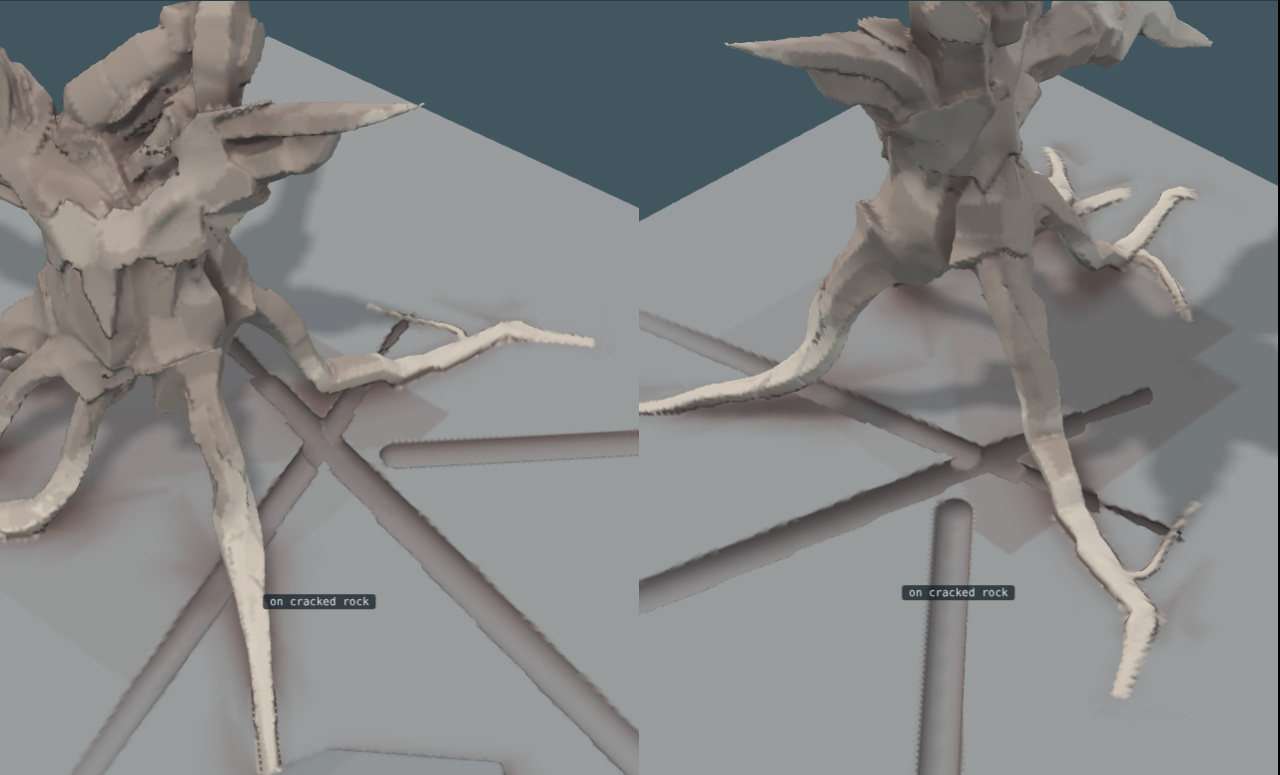
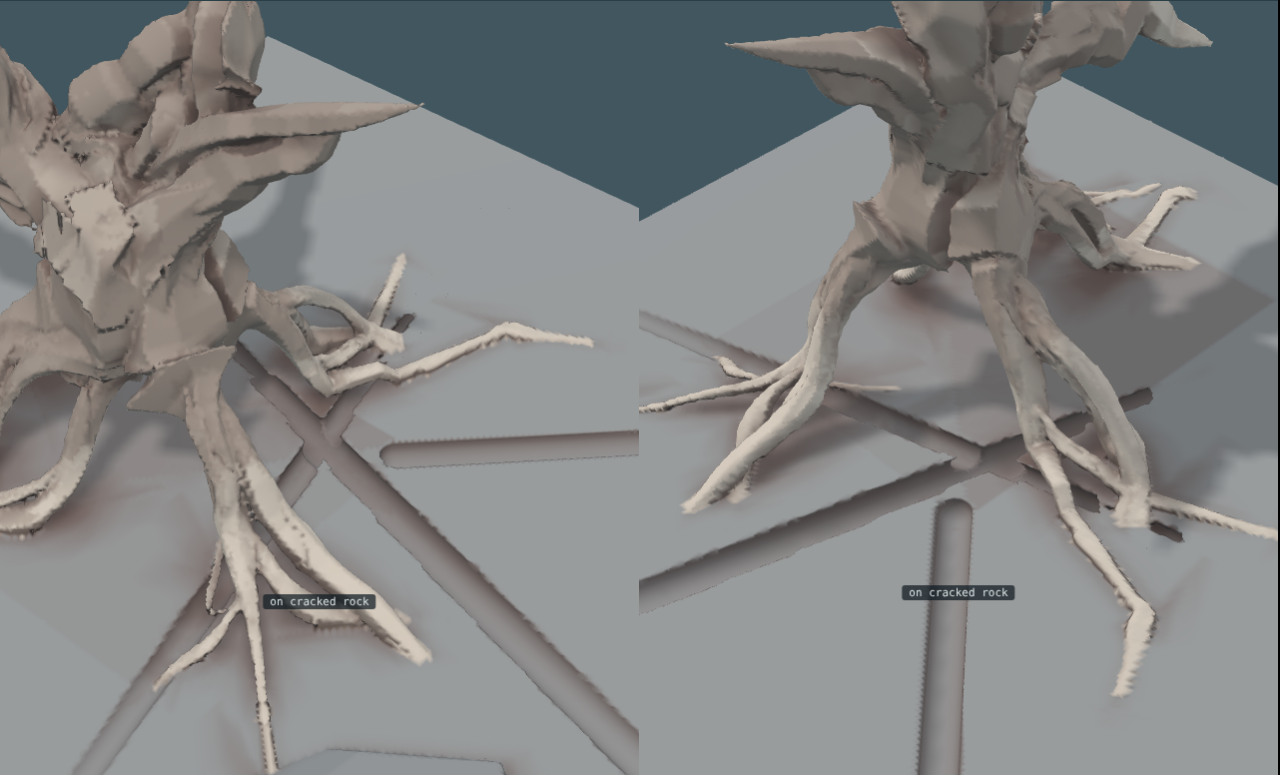
Roots divide near the foot, and what parts far out is a side root rather than a second trunk
Claude-Session: https://claude.ai/code/session_0192rgp75jGkttZXf7hEakip

diff --git a/trees.js b/trees.js
@@ -30,7 +30,7 @@
   function frames(P) { let N = null; return P.map((p, i) => { const T = unit([0, 1, 2].map((k) => P[Math.min(P.length - 1, i + 1)][k] - P[Math.max(0, i - 1)][k])); N = unit((N || [1, 0, 0.2]).map((v, k, A) => v - T[k] * dot(A, T))); return [T, N, cross(T, N)]; }); }
 
   function grow(recipe) {
-    const P = Object.assign({ strands: 8, fill: 0.75, uneven: 0.5, twist: 0.5, taut: 0.3, stiff: 0.05, hug: 0.15, bind: 0.004, roots: 0.6, wind: 1.1, mixed: false, lmax: 0, set: 0, swell: 1, feet: 0, lap: 0, ground: null, down: 0.6, crease: 3.2, seam: 0.55, seams: 7, hem: 2.2, leg: 0.16, knuckle: 0.55, knee: 0.3, weave: 1, bridge: 2.2, toe: 0.13, tip: 0.26, snake: 1, air: 0.18, reach: 0.6, eyes: 0.4, hang: 0.3, bold: 0.35, brace: 0.12, bite: 1.8, forks: 1, dive: 0.12, slant: 0.75, clumps: 3, cling: 0.88, grip: 0.5, collar: 2, flare: 0.07, waste: 0.25, clear: 1, settle: 0, giving: 0.75, passes: 1500, ds: 0.035, seed: 1, trunk: [[0, 0.14, 0, 0.27], [0, 1.6, 0, 0.1]], limbs: [], orb: null }, recipe);
+    const P = Object.assign({ strands: 8, fill: 0.75, uneven: 0.5, twist: 0.5, taut: 0.3, stiff: 0.05, hug: 0.15, bind: 0.004, roots: 0.6, wind: 1.1, mixed: false, lmax: 0, set: 0, swell: 1, feet: 0, lap: 0, ground: null, down: 0.6, crease: 3.2, seam: 0.55, seams: 7, hem: 2.2, leg: 0.16, knuckle: 0.55, knee: 0.3, forkBy: 0.42, weave: 1, bridge: 2.2, toe: 0.13, tip: 0.26, snake: 1, air: 0.18, reach: 0.6, eyes: 0.4, hang: 0.3, bold: 0.35, brace: 0.12, bite: 1.8, forks: 1, dive: 0.12, slant: 0.75, clumps: 3, cling: 0.88, grip: 0.5, collar: 2, flare: 0.07, waste: 0.25, clear: 1, settle: 0, giving: 0.75, passes: 1500, ds: 0.035, seed: 1, trunk: [[0, 0.14, 0, 0.27], [0, 1.6, 0, 0.1]], limbs: [], orb: null }, recipe);
     // The ground, if the tree is given one: any function of a place that is how far it is outside the ground (less than
     // nothing inside). Without one the ground is the level at height 0, as it always was. (A grown tree is always given one, level if nothing else, so that its roots are walked.)
     const G = P.ground, gradG = G ? (x, y, z) => { const e = 0.008; return unit([G(x + e, y, z) - G(x - e, y, z), G(x, y + e, z) - G(x, y - e, z), G(x, y, z + e) - G(x, y, z - e)]); } : null, rootPts = [];
@@ -304,12 +304,13 @@
     // side as a root of its own, walked like any other from there, and what goes on is that much the less. A root
     // that has parted off may part once more. So the foot has a few heavy roots, and the ground further out has
     // many fine ones, each traceable back to a heavy one: the way the tree divides above the ground, upside down.
-    if (G && P.forks) { const part = (pi, depth) => { const par = S[pi], n = depth > 1 ? (r() < 0.3 * P.forks ? 1 : 0) : depth ? 1 + (r() < 0.3 * P.forks ? 1 : 0) : 1 + (r() < 0.75 * P.forks ? 1 : 0); let u = 0.1 + 0.18 * r();
-        for (let e = 0; e < n; e++, u += 0.2 + 0.18 * r()) { if (u > 0.75) break; const k = Math.round((1 - u) * par.root); if (k < 4 || k > par.root - 2) continue;
-          const pos = [par.X[k * 3], par.X[k * 3 + 1], par.X[k * 3 + 2]]; if (G(pos[0], pos[1], pos[2]) > 4 * par.rho[k]) continue;   // not while it is still coming down: a tree perched high would stand on a palisade of straws
+    if (G && P.forks) { const part = (pi, depth) => { const par = S[pi], n = depth > 1 ? (r() < 0.3 * P.forks ? 1 : 0) : depth ? 1 + (r() < 0.45 * P.forks ? 1 : 0) : 1 + (r() < 0.8 * P.forks ? 1 : 0) + (r() < 0.5 * P.forks ? 1 : 0); let u = 0.06 + 0.14 * r() * r();
+        for (let e = 0; e < n; e++, u += 0.055 + 0.1 * r()) { if (u > P.forkBy) break; const k = Math.round((1 - u) * par.root); if (k < 4 || k > par.root - 2) continue;
+          const pos = [par.X[k * 3], par.X[k * 3 + 1], par.X[k * 3 + 2]]; { const kb = Math.max(0, k - 3), db = [0, 1, 2].map((c) => par.X[k * 3 + c] - par.X[kb * 3 + c]), dl = H(db[0], db[1], db[2]) || 1e-9;
+            if (-db[1] / dl > 0.5 || G(pos[0], pos[1], pos[2]) > 12 * par.rho[k]) continue; }   // not while it is still coming down, nor out on a leap: either way a tree perched high would stand on a palisade of straws
           const d = unit([par.X[(k - 2) * 3] - pos[0], par.X[(k - 2) * 3 + 1] - pos[1], par.X[(k - 2) * 3 + 2] - pos[2]]), nn = gradG(pos[0], pos[1], pos[2]), sd = cross(nn, d), a = (r() < 0.5 ? -1 : 1) * (0.4 + 0.4 * r());
-          const dir = unit(d.map((v, c) => v * Math.cos(a) + sd[c] * Math.sin(a))), share = 0.34 + 0.24 * r(), rb = par.rho[k] * Math.sqrt(share);
-          if (rb < 0.005) continue; const w = walk(pos, dir, rb, Math.max(0.2, k * ds * (0.3 + 0.3 * r())), r() < 0.9, 0); if (w.rx.length < 6) continue;   // (a part of a root runs a good deal shorter than what is left of the root it came off)
+          const dir = unit(d.map((v, c) => v * Math.cos(a) + sd[c] * Math.sin(a))), share = (0.34 + 0.24 * r()) * (1 - 0.6 * Math.min(1, u / P.forkBy)), rb = par.rho[k] * Math.sqrt(share);
+          if (rb < 0.0032) continue; const w = walk(pos, dir, rb, Math.max(0.2, k * ds * (0.3 + 0.3 * r())), r() < 0.9, 0); if (w.rx.length < 6) continue;   // (a part of a root runs a good deal shorter than what is left of the root it came off)
           for (let j = 0; j < k; j++) par.rho[j] *= 1 + (Math.sqrt(1 - share) - 1) * sstep(k, k - 4, j);
           const pts = w.rx.slice().reverse().concat([pos]), K = pts.length, X = Float64Array.from(pts.flat()); for (const q of w.rx) rootPts.push(q);
           S.push({ X, goal: Float64Array.from(X), rho: Float64Array.from(w.rr.slice().reverse().concat([rb])), hold: Float64Array.from({ length: K }, (_, j) => (j < K * 0.45 ? 0.2 : 0)), root: K, K, limb: -1, limbAt: -1, a: par.a, b: par.b, fat: par.fat * Math.sqrt(share), bend: Math.min(par.bend, 0.055), give: 1, snapped: false, rootOf: pi, po: k });

diff --git a/LOG.md b/LOG.md
@@ -3951,3 +3951,54 @@ check in `runs/021-girth/lint.js` did not catch it, because the check was
 written for a comment put after unfinished code, and this was code put
 after a finished comment -- the same accident from the other side. It
 checks both now.
+
+## Roots divide near the foot, not out in the field
+
+"I don't like it when the roots fork late, that feels like potato rhizome
+again." Measured, that was fair: a division happened at a median 0.46 of
+the way out along the roots' reach and sometimes at 0.77, and what parted
+took two thirds of the section it left. A root running most of its length
+and then splitting half of itself off is a rhizome. A tree shares its
+section out near the foot and fines down from there.
+
+Three things, and the third is the one that mattered.
+
+- **Divisions are crowded into the first part of a run.** Where one may
+  happen was 0.1 to 0.75 of the way out; it is 0.06 to `forkBy` (0.42) now,
+  and the steps between are half what they were, so several fit in the near
+  part instead of being spread the whole length.
+- **What a division takes falls away with how far out it is.** It was a
+  flat 34 to 58% of the section wherever it happened. At `forkBy` it is now
+  40% of that, so what parts far out is a side root and not a second trunk.
+- **And the rule that refused four of every seven.** A division was refused
+  while the root was "still coming down", measured as being more than four
+  of its own radii above the ground -- which is exactly where a root is in
+  the near part of its run, the part I had just crowded the divisions into.
+  The first two changes cut the branching from 87 divisions to 30, and the
+  root system came out sparse and long: I had traded one wrong look for
+  another. What that rule is for is not forbidding height but forbidding
+  division while the root is plunging, which is what would stand a perched
+  tree on a palisade of straws. It tests the run's own slope now, and
+  refuses a division only on a plunge or out on an aerial leap.
+
+      divisions                              87  ->  99
+      how far out, as a share of the reach   median 0.46 -> 0.26, worst 0.77 -> 0.46
+      what a division takes of its parent    median 0.68 -> 0.57
+      roots crossing a ring, at most         0.39 of the trunk's section
+
+The lesson is the one from the bark round again, a day later: a threshold
+written as an absolute height (or girth, or length) encodes an assumption
+about where the thing it guards will be, and when another rule moves that
+thing the threshold quietly guts it. Both times the symptom was a count
+collapsing, and both times I found it by counting the refusals rather than
+by staring at the result.
+
+Wrong, or not there:
+- Where a root divides is decided along the root, not by the place. It does
+  not divide at a rock, or round one.
+- The two that leave a division are the same kind of thing at different
+  sizes. In a tree one is usually the continuation and the other is clearly
+  a branch of it, and that difference is not drawn here.
+
+      page 9's lines, from here   3e496fc5e4 81c54a33c9 ce8a85f524 a13c6d4762 c5496686c3
+      page 7's four, unchanged    e387ada36c 17dc01b122 a61f129179 b2eac9db5f
